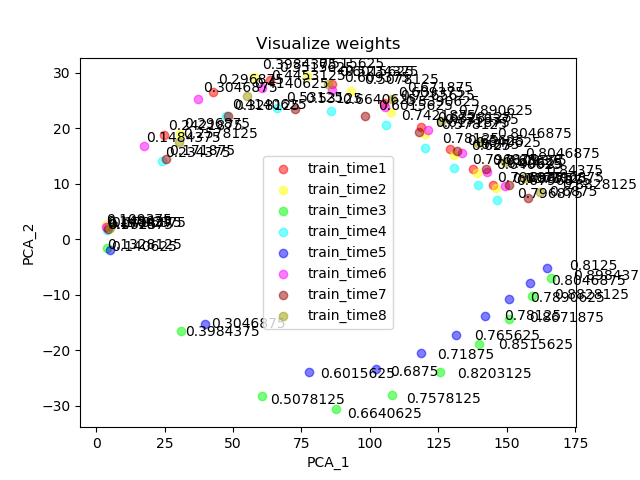
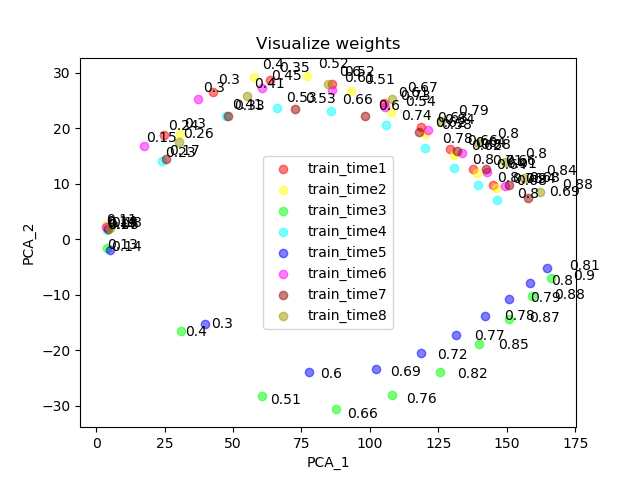
modify accuracy in image

diff --git a/HW1-2/visulization_weights.py b/HW1-2/visulization_weights.py
@@ -39,7 +39,7 @@ def main(args):
         pca_x, pca_y = points_list[i].T
         plt.scatter(pca_x, pca_y, c=listColor[i], alpha=0.5, label="train_time" + str(i+1))
         for j in range(len(pca_x)):
-            plt.annotate(str(accuracy_list[i][j]), (pca_x[j]*1.05, pca_y[j]*1.05))
+            plt.annotate(str(round(accuracy_list[i][j], 2)), (pca_x[j]*1.05, pca_y[j]*1.05))
     plt.legend()
     plt.savefig(os.path.join(args.SAVE_IMAGE_DIR_PATH, "visulization_weights.png"))
     plt.clf()
